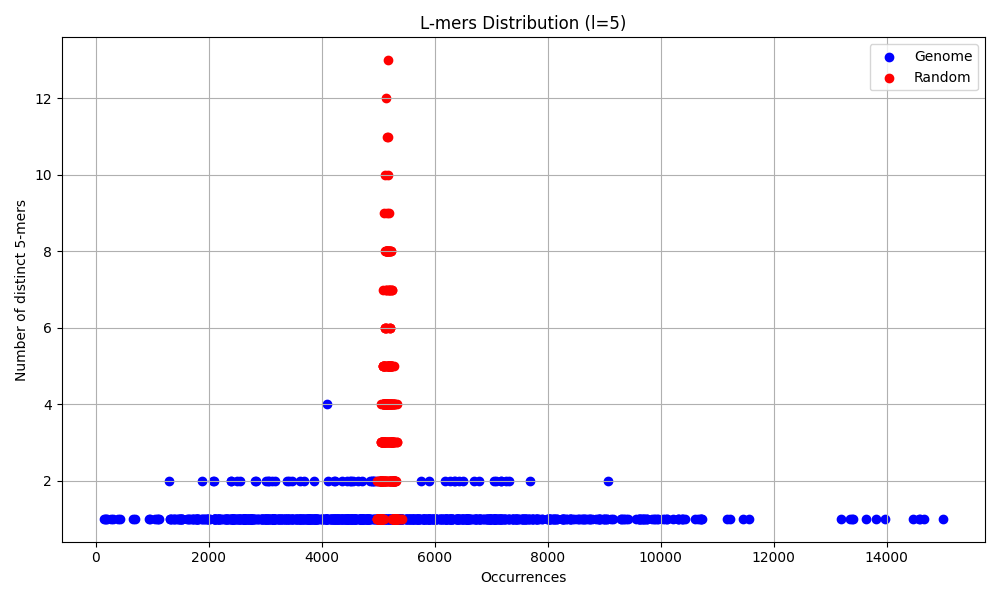
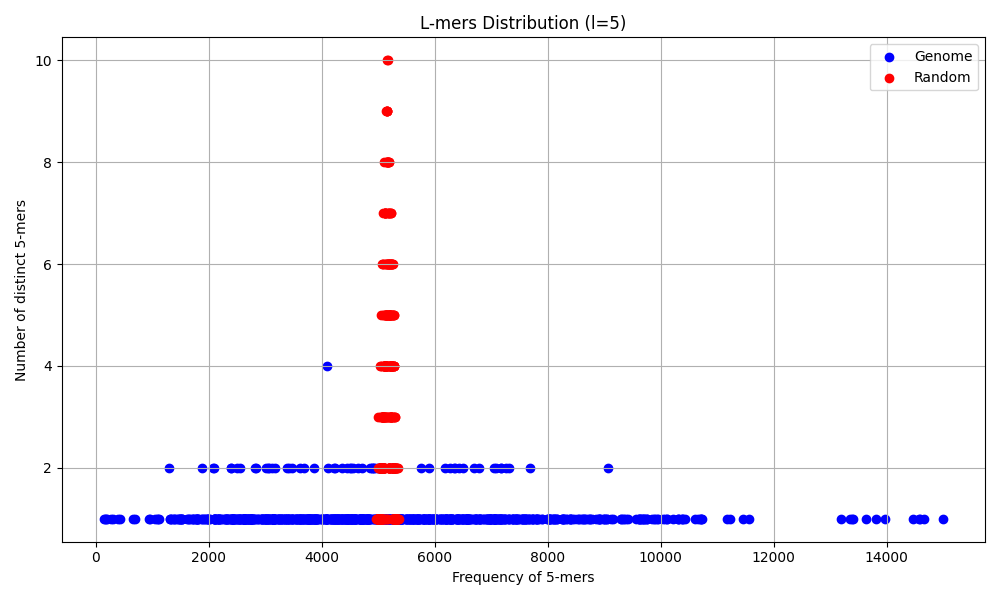
plot modified

diff --git a/lmer.py b/lmer.py
@@ -35,12 +35,34 @@ random_dist = Counter(random_counts.values())
 df_genome = pd.DataFrame(sorted(genome_dist.items()), columns=['Occurrences', 'Num_lmers'])
 df_random = pd.DataFrame(sorted(random_dist.items()), columns=['Occurrences', 'Num_lmers'])
 
-# Plot distributions 
+# Plot two distributions of l-mers using subplots
+plt.figure(figsize=(12, 6))
+plt.subplot(1, 2, 1)
+plt.scatter(df_genome['Occurrences'], df_genome['Num_lmers'], color='blue', alpha=0.7, label='Genome')
+plt.title(f'L-mers Distribution in Genome (l={l})')
+plt.xlabel(f'Frequency of {l}-mers')
+plt.ylabel(f'Number of distinct {l}-mers')
+plt.legend()
+plt.grid(True)
+
+
+plt.subplot(1, 2, 2)
+plt.scatter(df_random['Occurrences'], df_random['Num_lmers'], color='orange', alpha=0.7, label='Random')
+plt.title(f'L-mers Distribution in Random Sequence (l={l})')
+plt.xlabel(f'Frequency of {l}-mers')
+plt.ylabel(f'Number of distinct {l}-mers')
+plt.legend()
+plt.grid(True)
+plt.tight_layout()
+plt.savefig('lmer_distribution_both.png')
+plt.show()
+
+# plot a combined plot for genome and random sequence
 plt.figure(figsize=(10, 6))
 plt.scatter(df_genome['Occurrences'], df_genome['Num_lmers'], color='blue', label='Genome')
 plt.scatter(df_random['Occurrences'], df_random['Num_lmers'], color='red', label='Random')
 plt.title(f'L-mers Distribution (l={l})')
-plt.xlabel('Occurrences')
+plt.xlabel(f'Frequency of {l}-mers')
 plt.ylabel(f'Number of distinct {l}-mers')
 plt.legend()
 plt.grid(True)
